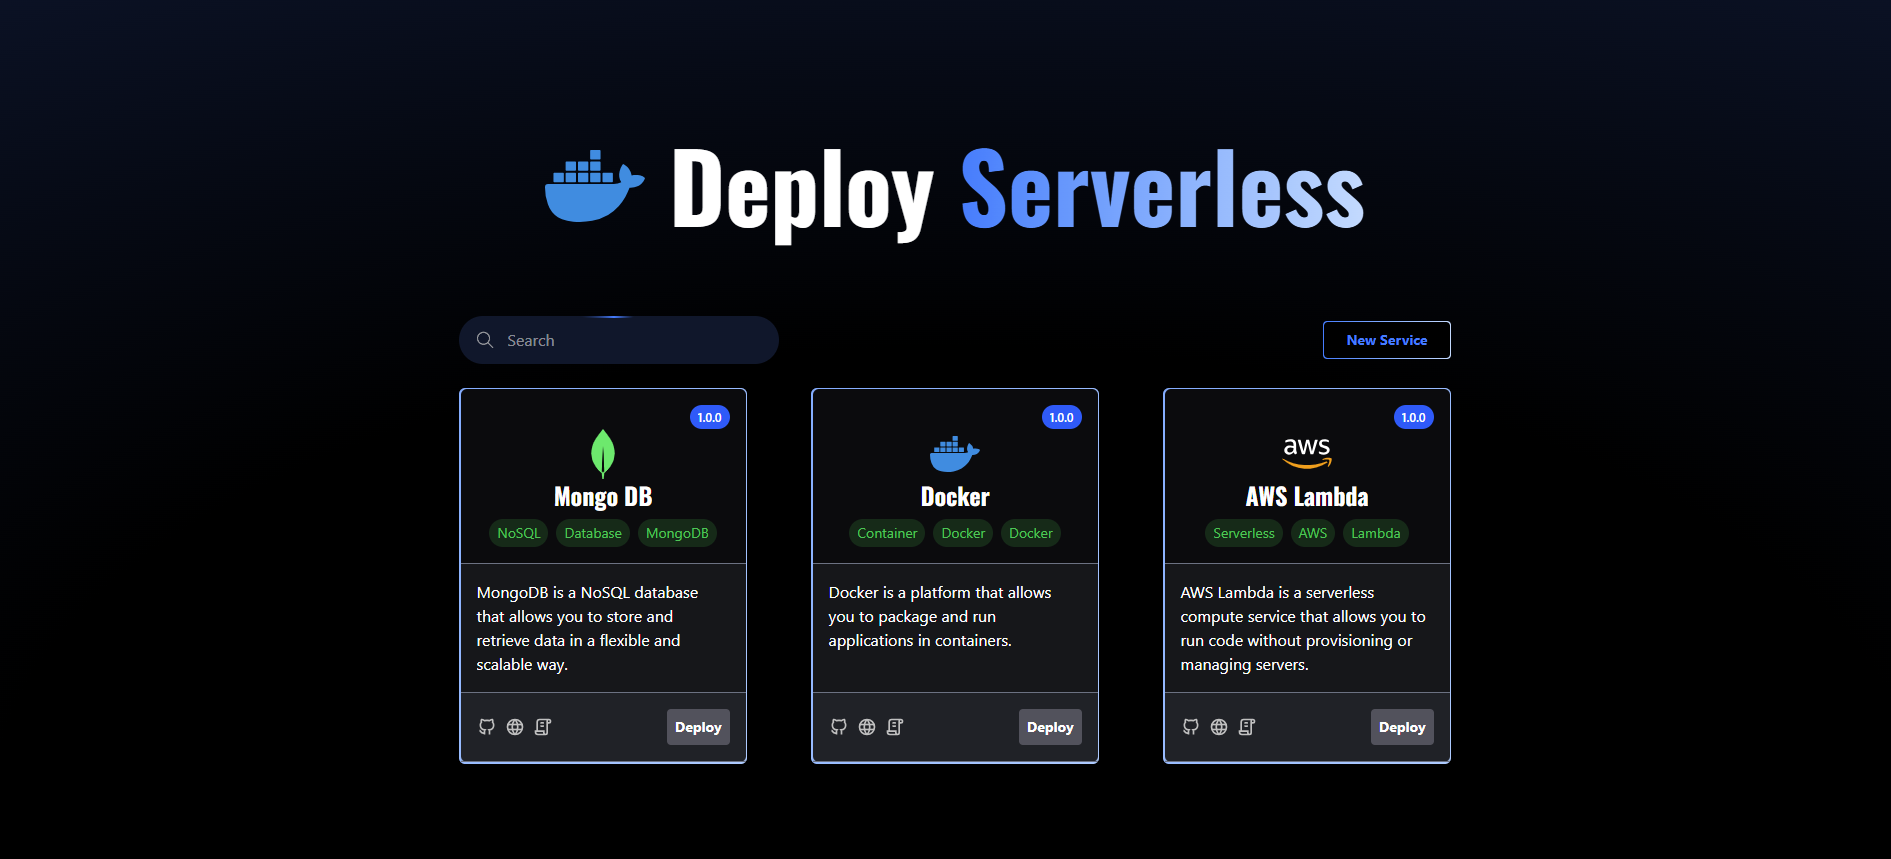
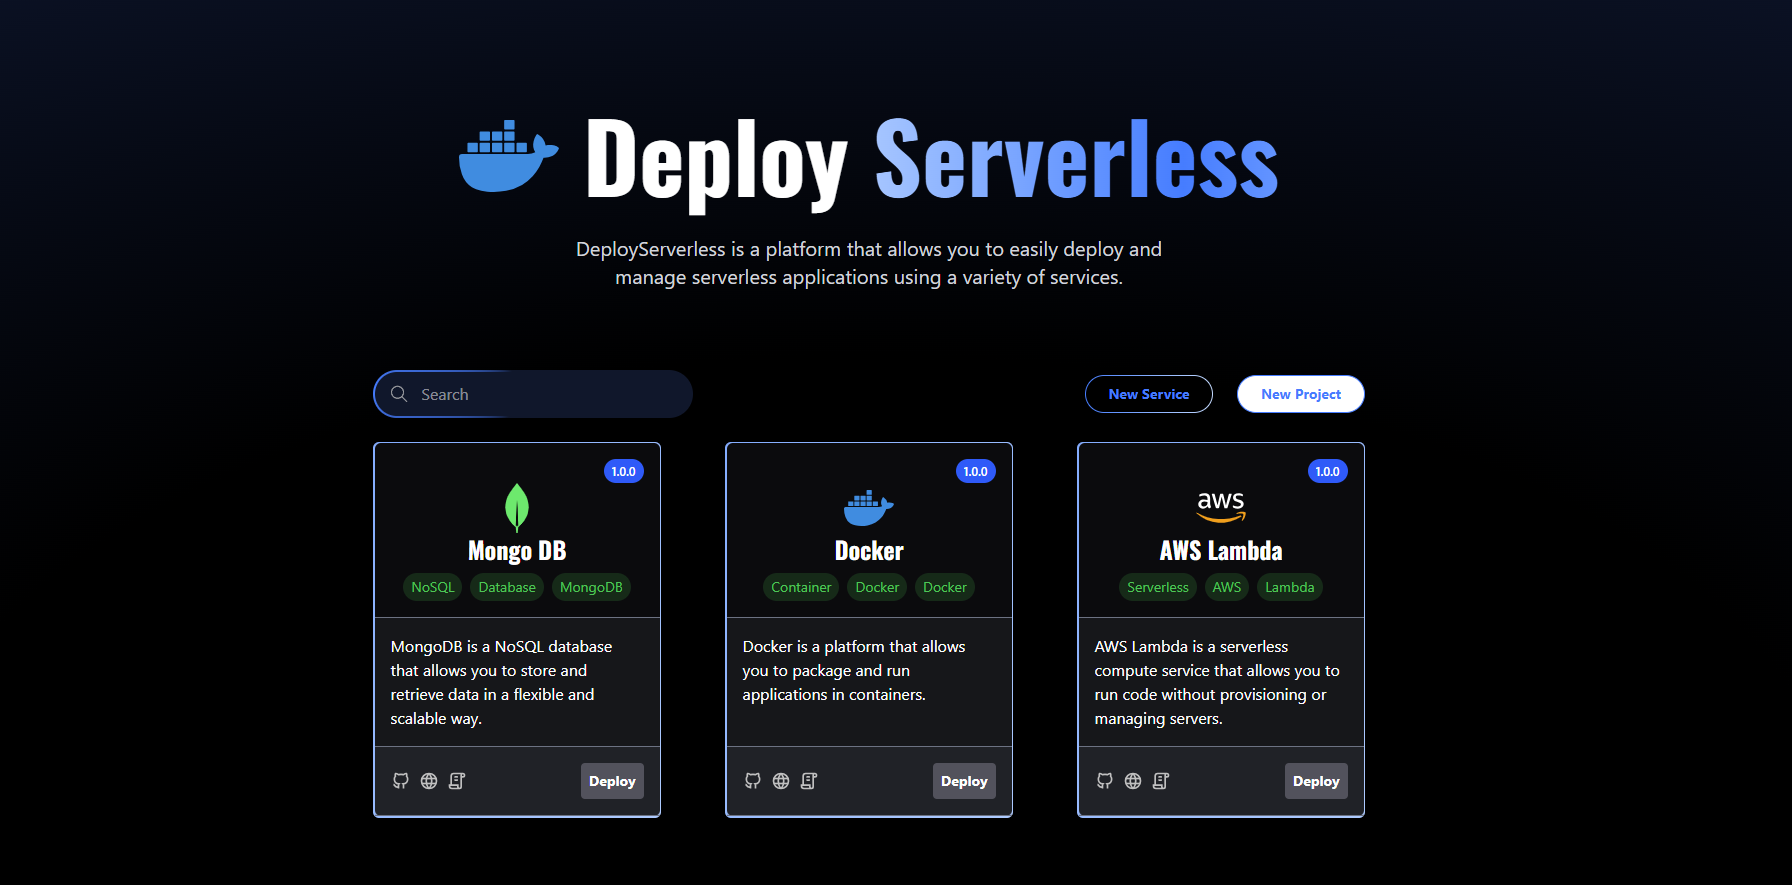
✨ fix: optimize button styles and adjust animation duration in App component

Changed region(s): [[0.1875, 0.3632, 0.7812, 0.9383], [0.25, 0.1211, 0.7188, 0.3329]]

diff --git a/src/App.tsx b/src/App.tsx
@@ -1,8 +1,5 @@
 import ServiceCard from "./components/ServiceCard";
-import {
-  Docker,
-  Search,
-} from "./components/SvgIcons";
+import { Docker, Search } from "./components/SvgIcons";
 import { useMock } from "./hooks/useMock.hook";
 
 export function App() {
@@ -18,8 +15,8 @@ export function App() {
       </h1>
 
       <p className="text-center text-gray-300 lg:text-xl max-w-2xl px-4">
-        DeployServerless is a platform that allows you to easily deploy and manage
-        serverless applications using a variety of services.
+        DeployServerless is a platform that allows you to easily deploy and
+        manage serverless applications using a variety of services.
       </p>
 
       <div className="mt-20">
@@ -34,14 +31,23 @@ export function App() {
               />
             </div>
           </div>
-          <button
-            className=" from-blue-500 to-blue-200 bg-linear-to-r group
-           text-white rounded font-bold text-sm cursor-pointer p-px w-32"
-          >
-            <div className="bg-black p-2 rounded w-full h-full text-blue-500 group-hover:from-blue-200 group-hover:to-blue-500">
-              New Service
-            </div>
-          </button>
+          <div className="flex gap-6">
+            <button
+              className="from-blue-500 to-blue-200 bg-linear-to-r group
+             text-white rounded-full font-bold text-sm cursor-pointer p-px w-32"
+            >
+              <div className="bg-black p-2 rounded-full w-full h-full text-blue-500 group-hover:from-blue-200 group-hover:to-blue-500">
+                New Service
+              </div>
+            </button>
+
+            <button
+              className="bg-white border border-blue-500 text-blue-500 
+            rounded-full font-bold text-sm cursor-pointer p-2 w-32 hover:bg-blue-500 hover:text-white transition-colors"
+            >
+              New Project
+            </button>
+          </div>
         </div>
         <br />
         <div className="flex gap-16 flex-wrap justify-center">

diff --git a/src/index.css b/src/index.css
@@ -5,7 +5,7 @@
   --font-oswald: "Oswald";
   --animate-gradient: gradient 0.4s ease infinite;
   --animate-gradient-btn: gradient-effect-btn 1s ease infinite;
-  --animate-gradient-background: background-gradient-effect 5s ease-in-out
+  --animate-gradient-background: background-gradient-effect 3s ease-in-out
     infinite;
 
   @keyframes background-gradient-effect {
